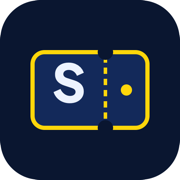
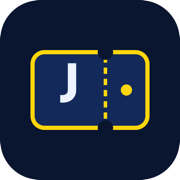
Ganti nama produk jadi Jejak (brand, ikon J, domain jejak-trip.vercel.app)

Changed region(s): [[0.2778, 0.3333, 0.4722, 0.5833]]

diff --git a/web/sw.js b/web/sw.js
@@ -1,4 +1,4 @@
-/* Sangu: service worker minimal supaya bisa dipasang ke layar utama. Tidak menyimpan cache data. */
+/* Jejak: service worker minimal supaya bisa dipasang ke layar utama. Tidak menyimpan cache data. */
 self.addEventListener("install", function () { self.skipWaiting(); });
 self.addEventListener("activate", function (e) { e.waitUntil(self.clients.claim()); });
 self.addEventListener("fetch", function () {});

diff --git a/lib/auth.js b/lib/auth.js
@@ -1,9 +1,9 @@
-/* Sangu: auth. Sesi per akun lewat cookie httpOnly; hanya sha256 token yang disimpan.
+/* Jejak: auth. Sesi per akun lewat cookie httpOnly; hanya sha256 token yang disimpan.
    Sandi akun di-hash scrypt. */
 const crypto = require("crypto");
 const db = require("./db");
 
-const SESS = "sangu_sess";
+const SESS = "jejak_sess";
 const MAXAGE = 60 * 60 * 24 * 180;
 
 function hashPassword(pw) {

diff --git a/lib/db.js b/lib/db.js
@@ -1,4 +1,4 @@
-/* Sangu: Postgres layer (Neon via @vercel/postgres).
+/* Jejak: Postgres layer (Neon via @vercel/postgres).
    Multi-akun dari awal: setiap baris punya user_id, setiap query memfilter user_id. */
 const { sql } = require("@vercel/postgres");
 const crypto = require("crypto");

diff --git a/lib/brand.js b/lib/brand.js
@@ -1,6 +1,6 @@
 /* Nama produk: SATU-SATUNYA tempat nama ditulis. Ganti di sini lalu deploy.
    Dipakai halaman (lewat /brand.js), manifest PWA (/manifest.webmanifest), dan judul tab. */
 module.exports = {
-  name: "Sangu",
+  name: "Jejak",
   tagline: "dana perjalanan, bukti, rundown"
 };

diff --git a/web/app.js b/web/app.js
@@ -1,4 +1,4 @@
-/* Sangu: app satu halaman, tanpa framework. Rute lewat hash:
+/* Jejak: app satu halaman, tanpa framework. Rute lewat hash:
    #/                     daftar perjalanan
    #/t/:id/dana|rundown|diari|lapor
    #/t/:id/diari/:day     detail satu hari

diff --git a/README.md b/README.md
@@ -1,4 +1,4 @@
-# Sangu
+# Jejak
 
 Catatan dana perjalanan dinas & lomba: pemasukan, pengeluaran per kategori (rencana vs sudah dibayar), foto bukti struk, rundown yang bisa diedit, diari foto per hari, dan laporan pertanggungjawaban (PDF lewat cetak browser + CSV).
 
